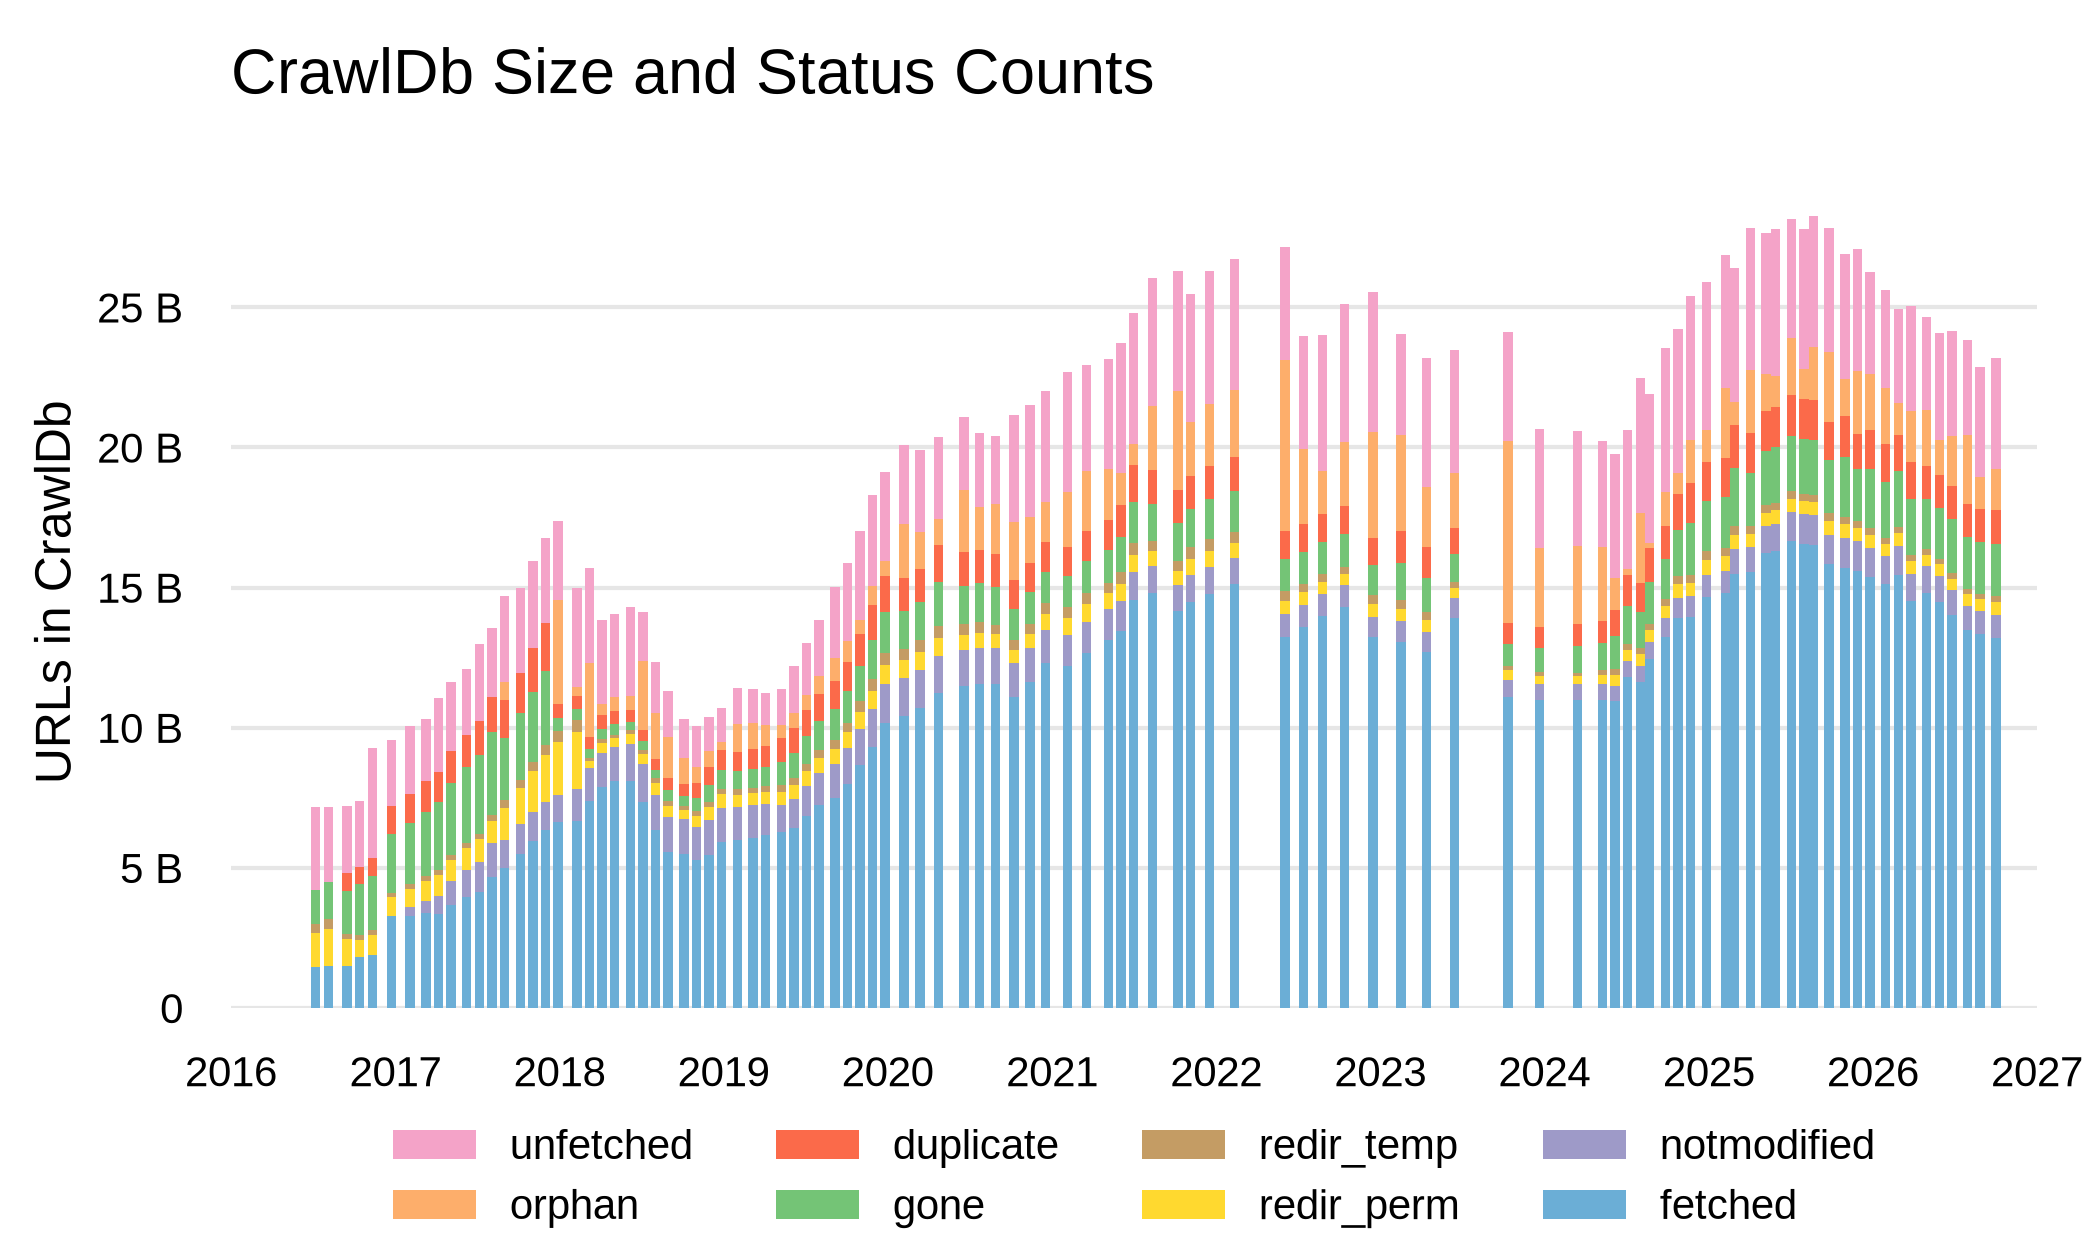
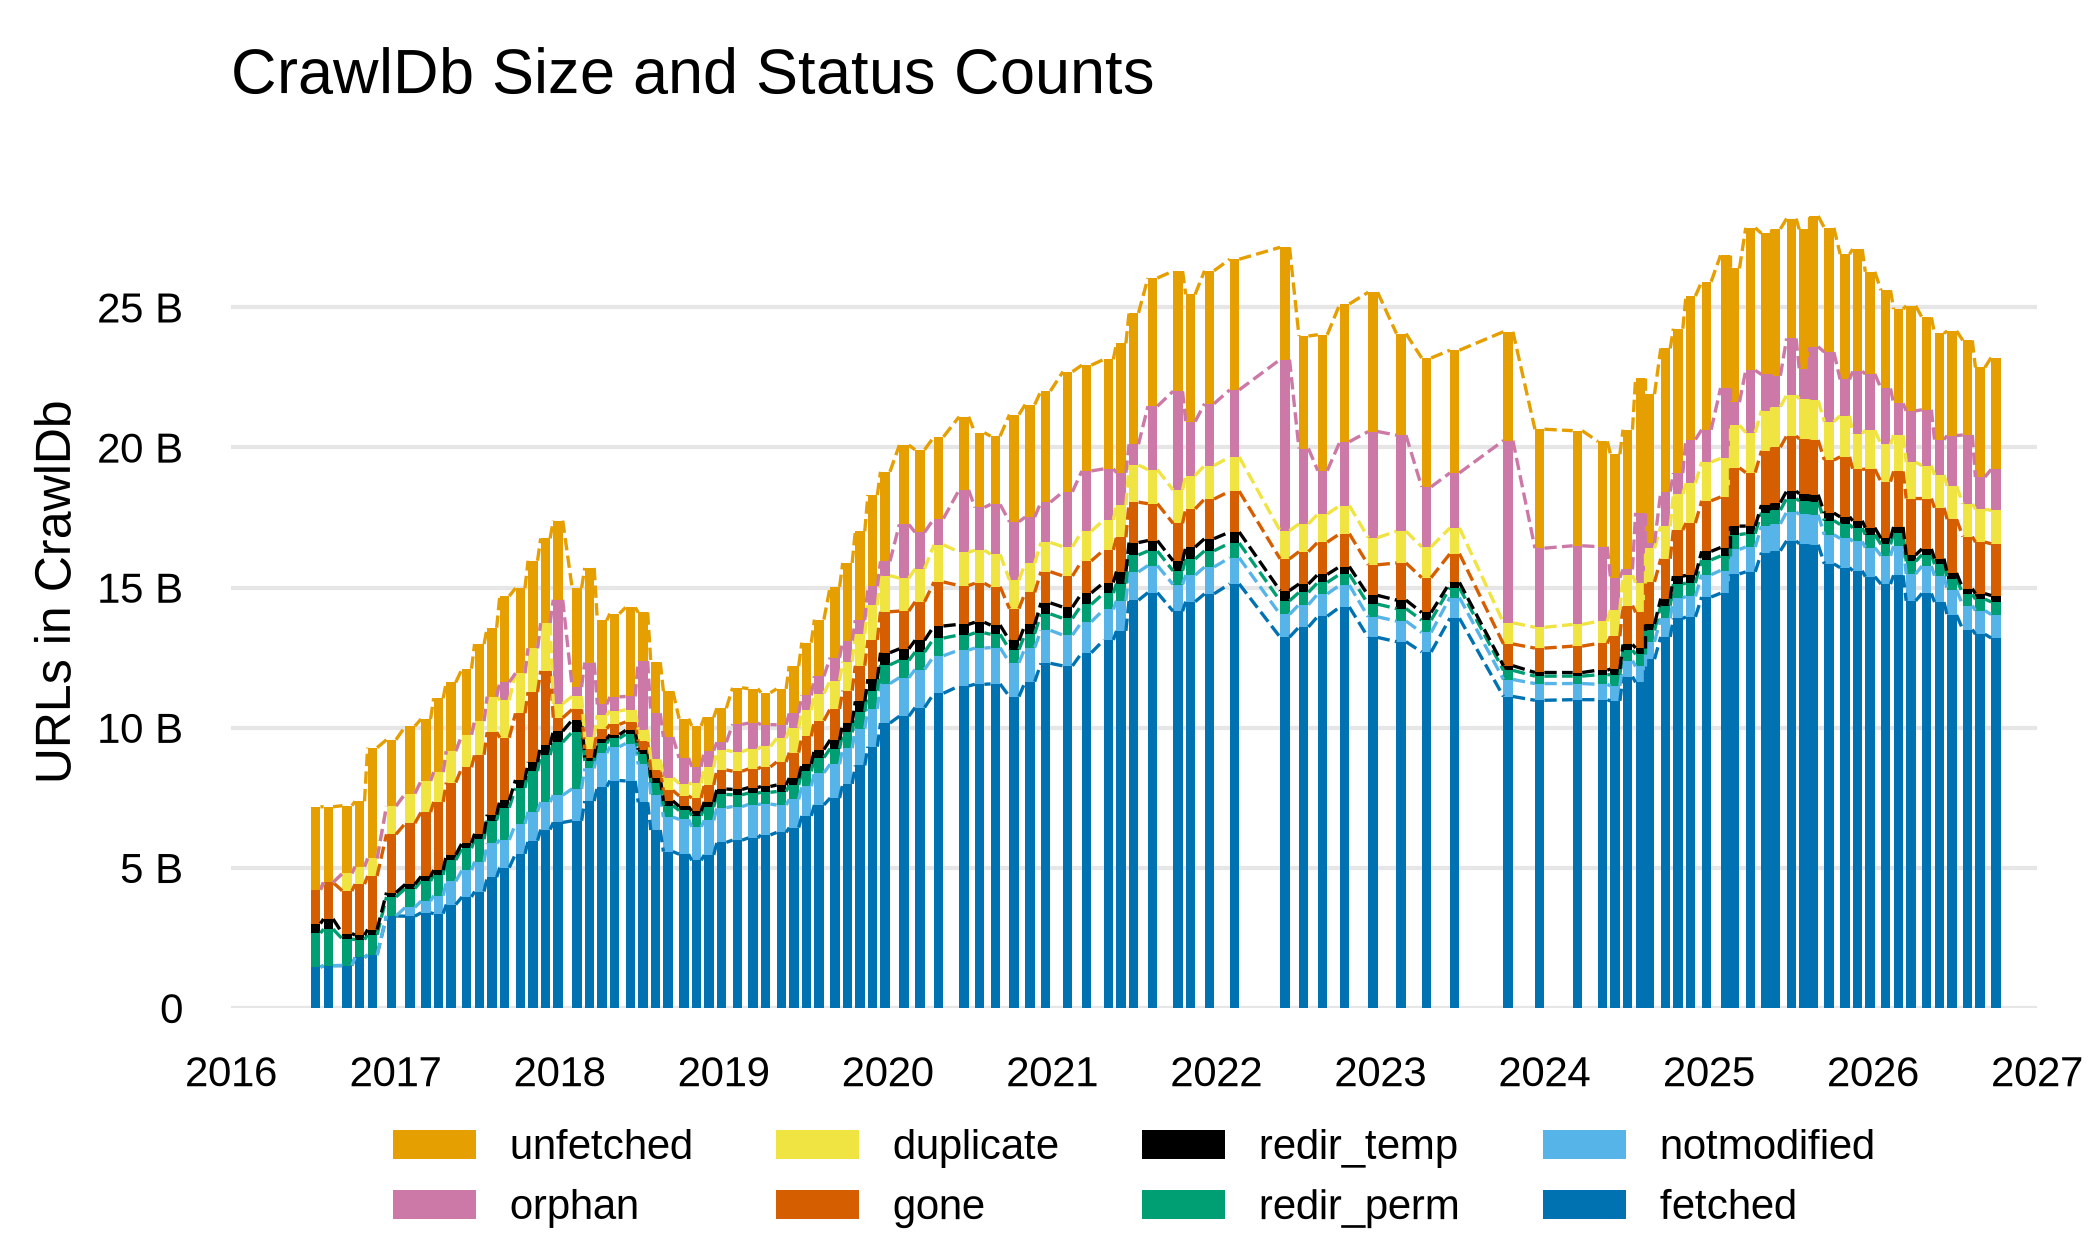
feat: use Wong colour palette and connect stacked bars across gaps (#57)
Reviewed the language color with @underwood. Compliant with the README usage definition.

diff --git a/plot/crawler_metrics.py b/plot/crawler_metrics.py
@@ -24,6 +24,14 @@ from crawl_size import CrawlSizePlot
 LOGGING_LEVEL = logging.INFO
 logging.basicConfig(level=LOGGING_LEVEL)
 
+# Wong colour palette, colour-blind safe (Bang Wong, Nature Methods 8, 441
+# (2011)), cf. "Graph line colors" in the Common Crawl onboarding guide
+WONG = {
+    'black': '#000000', 'orange': '#E69F00', 'sky_blue': '#56B4E9',
+    'bluish_green': '#009E73', 'yellow': '#F0E442', 'blue': '#0072B2',
+    'vermillion': '#D55E00', 'reddish_purple': '#CC79A7',
+}
+
 def human_format(v, _pos=None):
     """Format large tick values as billions or millions."""
     if v >= 1e9:
@@ -352,6 +360,10 @@ class CrawlerMetrics(CrawlSizePlot):
     # visible
     TIME_BAR_WIDTH = 21.0
 
+    # Width of the dashed lines which connect the stacked segments of
+    # neighbouring bars across the gap between two crawls
+    TIME_CONNECTOR_WIDTH = 0.8
+
     @staticmethod
     def time_axis(index):
         """Convert a DatetimeIndex to numeric x-positions for bars of
@@ -422,12 +434,16 @@ class CrawlerMetrics(CrawlSizePlot):
         label) and every crawl gets a bar of fixed width, so single
         crawls remain distinguishable, the irregular intervals between
         crawls are visible as gaps and the figure keeps a fixed
-        landscape size regardless of the number of crawls.
+        landscape size regardless of the number of crawls. Thin dashed
+        lines in the category colours connect the top of each stacked
+        segment to the same segment of the next crawl, so the bands can
+        be followed across the gaps.
 
         If data_export_csv is given, the plotted rows (restricted to
         data_export_columns) are written as CSV next to the image.
         """
         import numpy as np
+        from matplotlib.collections import LineCollection
         from matplotlib.ticker import FuncFormatter
 
         data = data[data['type'].isin(row_filter)].copy()
@@ -441,7 +457,6 @@ class CrawlerMetrics(CrawlSizePlot):
         categories = [c for c in status_order if c in wide.columns]
 
         x, xlim = self.time_axis(wide.index)
-
         fig, ax = self.create_figure(ratio=0.6)
 
         bottom = np.zeros(len(wide))
@@ -451,6 +466,14 @@ class CrawlerMetrics(CrawlSizePlot):
                    align='edge', color=status_colors[category],
                    label=category)
             bottom += values
+            # connect the segment's top from the right edge of each bar
+            # to the left edge of the next one
+            segments = [[(x0 + self.TIME_BAR_WIDTH, y0), (x1, y1)]
+                        for x0, y0, x1, y1
+                        in zip(x[:-1], bottom[:-1], x[1:], bottom[1:])]
+            ax.add_collection(LineCollection(
+                segments, colors=status_colors[category],
+                linewidths=self.TIME_CONNECTOR_WIDTH, linestyles='dashed'))
 
         ax.set_ylim(0, bottom.max() * 1.05)
         if yformatter is not None:
@@ -471,11 +494,13 @@ class CrawlerMetrics(CrawlSizePlot):
                         'redir_perm', 'redir_temp',
                         'gone', 'duplicate', 'orphan',
                         'unfetched']
+        # Wong colours, shared with the fetch status figure for the
+        # corresponding states; black for the thinnest band (redir_temp)
         status_colors = {
-            'fetched': '#6BAED6', 'notmodified': '#9E9AC8',
-            'redir_perm': '#FFD92F', 'redir_temp': '#C49C64',
-            'gone': '#74C476', 'duplicate': '#FB6A4A', 'orphan': '#FDAE6B',
-            'unfetched': '#F4A3C8',
+            'fetched': WONG['blue'], 'notmodified': WONG['sky_blue'],
+            'redir_perm': WONG['bluish_green'], 'redir_temp': WONG['black'],
+            'gone': WONG['vermillion'], 'duplicate': WONG['yellow'],
+            'orphan': WONG['reddish_purple'], 'unfetched': WONG['orange'],
         }
 
         return self.plot_stacked_status_time(
@@ -490,14 +515,15 @@ class CrawlerMetrics(CrawlSizePlot):
                                data_export_csv=None):
         """Generate fetch status percentage as vertical stacked bars over
         time."""
-        # Stack order (bottom to top), from dark green (success) to
-        # dark red (denied)
+        # Stack order (bottom to top), from blue (success, the most
+        # successful outcome) to vermillion and reddish purple (failed,
+        # denied)
         status_order = ['success', 'skipped', 'redirect',
                         'notmodified', 'failed', 'denied']
         status_colors = {
-            'success': '#1A9850', 'skipped': '#91CF60',
-            'redirect': '#D9EF8B', 'notmodified': '#FEE08B',
-            'failed': '#FC8D59', 'denied': '#D73027',
+            'success': WONG['blue'], 'skipped': WONG['yellow'],
+            'redirect': WONG['bluish_green'], 'notmodified': WONG['sky_blue'],
+            'failed': WONG['vermillion'], 'denied': WONG['reddish_purple'],
         }
         return self.plot_stacked_status_time(
             data, row_filter, '^fetcher:(?:aggr:)?',
